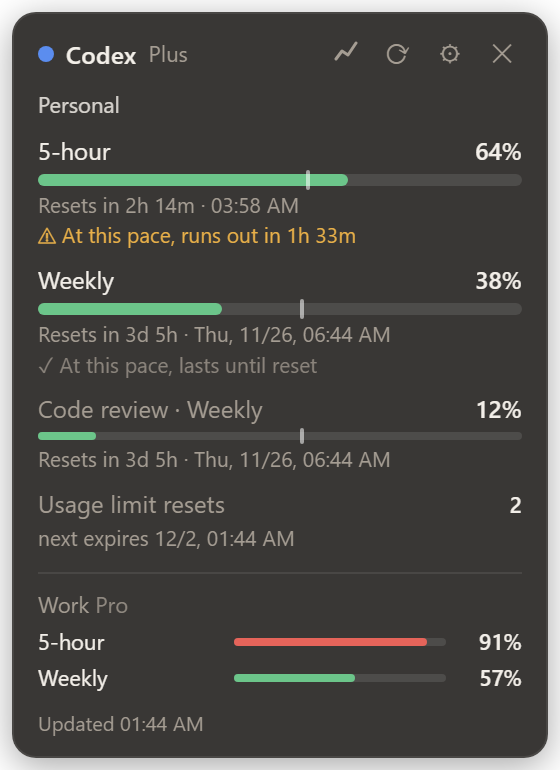
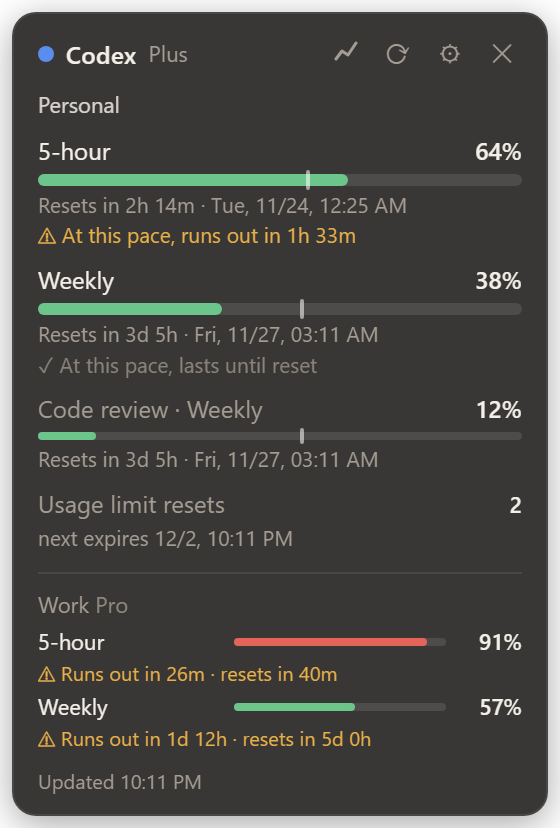
Show reset and run-out for other accounts; click an account name to open its history

diff --git a/src/widget.js b/src/widget.js
@@ -80,25 +80,61 @@ function creditsHtml(c) {
   return `<div class="row secondary"><div class="line"><span class="label">${esc(t('label.credits'))}</span><span class="pct money">${esc(v)}</span></div></div>`;
 }
 
+/** Run-out warning for a window, or '' when it lasts until the reset */
+function etaText(w) {
+  const e = w.eta;
+  if (!e) return '';
+  if (e.exhausted || w.limitReached) return t('w.exhausted');
+  if (e.beforeReset && e.at) return e.at > Date.now() ? t('w.etaRunOut', { left: fmtDur(e.at - Date.now()) }) : t('w.exhausted');
+  return '';
+}
+
+/** Short line under another account's bar once it matters: reached / runs out before the reset / ≥ 70% */
+function msubHtml(w) {
+  if (w.idle || !w.resetsAt) return '';
+  const ms = new Date(w.resetsAt).getTime() - Date.now();
+  if (!isFinite(ms)) return '';
+  const reset = ms > 0 ? fmtDur(ms) : null;
+  const e = w.eta;
+  const reached = w.limitReached || e?.exhausted || (e?.beforeReset && e.at && e.at <= Date.now());
+  if (reached) return `<div class="msub bad">${esc(reset ? t('w.mReached', { reset }) : t('w.exhausted'))}</div>`;
+  if (e?.beforeReset && e.at && reset) return `<div class="msub warn">${esc(t('w.mRunOut', { left: fmtDur(e.at - Date.now()), reset }))}</div>`;
+  if (w.pct >= 70) return `<div class="msub">${esc(fmtLeft(w.resetsAt))}</div>`;
+  return '';
+}
+
+/** Compact bar for another account; the full reset time and forecast are in the tooltip */
+function mrowHtml(w) {
+  const p = Math.round(w.pct);
+  const reset = w.idle ? t('w.idle') : fmtLeft(w.resetsAt);
+  const warn = w.idle ? '' : etaText(w);
+  const tip = [`${labelOf(w)} ${p}%`, reset, warn].filter(Boolean).join('\n');
+  const sub = msubHtml(w);
+  return `<div class="mrow" title="${esc(tip)}"><span class="mlabel">${esc(labelOf(w))}</span>
+    <div class="bar mbar"><div class="fill" style="width:${w.pct}%;background:${color(w.pct)}"></div></div>
+    <span class="mpct">${p}%</span></div>${sub}`;
+}
+
+/** Account name; a click opens that account's usage history */
+function anameHtml(name, part, extra = '') {
+  return `<span class="alink" data-part="${esc(part || '')}" title="${esc(t('w.history'))}">${esc(name)}</span>${extra}`;
+}
+
 /** Extra accounts: compact block per account with its 5-hour and weekly bars */
 function othersHtml(others) {
   return others.map((o, i) => {
     const name = o.name || o.email || t('a.unnamed', { n: i + 2 });
     let body;
     if (o.status === 'ok') {
-      body = o.windows.map(w => {
-        const p = Math.round(w.pct);
-        return `<div class="mrow"><span class="mlabel">${esc(labelOf(w))}</span>
-          <div class="bar mbar"><div class="fill" style="width:${w.pct}%;background:${color(w.pct)}"></div></div>
-          <span class="mpct">${p}%</span></div>`;
-      }).join('');
+      body = o.windows.map(mrowHtml).join('');
     } else if (o.status === 'auth') {
       body = `<div class="mmsg">${esc(msgOf(o))} <a href="#" class="mlogin" data-part="${esc(o.partition)}">${esc(t('w.pasteBtn'))}</a></div>`;
     } else {
       body = `<div class="mmsg">${esc(msgOf(o))}</div>`;
     }
     if (o.signInExpiresAt) body += expiringHtml(o.signInExpiresAt, o.partition);
-    return `<div class="acct"><div class="aname">${esc(name)}${o.plan ? ` <span class="aplan">${esc(o.plan)}</span>` : ''}</div>${body}</div>`;
+    const plan = o.plan ? ` <span class="aplan">${esc(o.plan)}</span>` : '';
+    return `<div class="acct"><div class="aname">${o.email ? anameHtml(name, o.partition, plan) : esc(name) + plan}</div>${body}</div>`;
   }).join('');
 }
 
@@ -169,7 +205,7 @@ function render() {
     // Blocked: say why first (also in compact mode)
     if (data.blocked) html = blockedHtml(data) + html;
     // Which account this is: custom name or email, always shown when known
-    if (state.account) html = `<div class="aname main" title="${esc(state.account)}">${esc(state.account)}</div>` + html;
+    if (state.account) html = `<div class="aname main">${anameHtml(state.account, '')}</div>` + html;
     if (!opts.compact && data.modelsUnavailable?.length) html += modelsHtml(data.modelsUnavailable);
     if (!opts.compact && data.credits) html += creditsHtml(data.credits);
     if (!opts.compact && data.resets) html += resetsHtml(data.resets);
@@ -212,6 +248,7 @@ function render() {
       e.preventDefault(); window.api.accounts.paste(a.dataset.part);
     }));
   }
+  $('content').querySelectorAll('.alink').forEach(a => a.addEventListener('click', () => window.api.openHistory(a.dataset.part || '')));
   $('content').querySelectorAll('.repaste').forEach(a => a.addEventListener('click', (e) => {
     e.preventDefault();
     if (a.dataset.part) window.api.accounts.paste(a.dataset.part); else window.api.paste.open();

diff --git a/src/main.js b/src/main.js
@@ -1019,8 +1019,19 @@ function openSettings() {
   settingsWin.on('closed', () => { settingsWin = null; });
 }
 
-function openHistory() {
-  if (historyWin && !historyWin.isDestroyed()) { historyWin.focus(); return; }
+let historyPick; // account key the history window should open on
+/** part: show this account ('' = main, a partition = another account); omitted = keep the current choice */
+function openHistory(part) {
+  let key;
+  if (typeof part === 'string') {
+    const acct = part ? (config.accounts || []).find(a => a.partition === part) : null;
+    key = acct ? histKey(acct.email) : histKey(config.mainEmail);
+  }
+  if (historyWin && !historyWin.isDestroyed()) {
+    if (key) historyWin.webContents.send('history:select', key);
+    historyWin.focus(); return;
+  }
+  historyPick = key || undefined;
   historyWin = new BrowserWindow({
     width: 600, height: 560, title: t('h.title'), backgroundColor: '#1b1d22',
     autoHideMenuBar: true, minWidth: 420, minHeight: 480,
@@ -1064,7 +1075,7 @@ function buildMenu() {
     { type: 'separator' },
     { label: t('menu.login'), click: () => openLogin(), enabled: config.source === 'web' },
     { label: t('menu.paste'), click: () => openPaste() },
-    { label: t('menu.history'), click: openHistory },
+    { label: t('menu.history'), click: () => openHistory() },
     { label: t('menu.openUsage'), click: () => shell.openExternal(USAGE_PAGE) },
     { type: 'separator' },
     {
@@ -1170,7 +1181,7 @@ ipcMain.handle('get-state', () => ({ state: lastState, opts: viewOpts() }));
 ipcMain.on('refresh', () => refresh());
 ipcMain.on('login', () => openLogin());
 ipcMain.on('open-settings', () => openSettings());
-ipcMain.on('open-history', () => openHistory());
+ipcMain.on('open-history', (_e, part) => openHistory(typeof part === 'string' ? part : undefined));
 ipcMain.on('open-issue', () => shell.openExternal(ISSUES_URL));
 ipcMain.on('use-source', (_e, src) => {
   if (src !== 'web' && src !== 'cli' || src === config.source) return;
@@ -1203,6 +1214,7 @@ function historyName(key) {
   return a ? acctName(a) : usage.accountName(key, '', config.maskEmail);
 }
 ipcMain.handle('history:get', (_e, acct) => {
+  if (acct == null && historyPick) { acct = historyPick; historyPick = undefined; }
   const now = Date.now();
   const main = histKey(config.mainEmail);
   // Main account first, then the others by when they were last seen

diff --git a/test/smoke-runner.js b/test/smoke-runner.js
@@ -83,12 +83,26 @@ setTimeout(async () => {
   const after = await ipc['settings:get']();
   // HISTORY: what the history window gets (HISTORY=<key> picks an account)
   const history = process.env.HISTORY ? await ipc['history:get']({}, process.env.HISTORY === '1' ? undefined : process.env.HISTORY) : undefined;
+  // OPEN_HISTORY=<partition>: click that account's name on the widget → history opens on it;
+  // then the header button (no account) and the main account's name while it's open
+  let openHistory;
+  if (process.env.OPEN_HISTORY) {
+    ipc['open-history']({}, process.env.OPEN_HISTORY);
+    const first = await ipc['history:get']({}, undefined);
+    const second = await ipc['history:get']({}, undefined); // the pick is used once
+    const selects = () => global.__sent.filter(s => s[0] === 'history:select').map(s => s[1]);
+    ipc['open-history']({}, undefined);
+    const afterButton = selects();
+    ipc['open-history']({}, '');
+    openHistory = { first: first.selected, second: second.selected, afterButton, afterMain: selects(),
+      windows: global.__windows.filter(w => String(w.file || '').endsWith('history.html')).length };
+  }
   const workspaces = process.env.WORKSPACES ? await ipc['settings:list-workspaces']() : undefined;
   const pastedFile = path.join(global.__userData, 'pasted-sessions.bin');
   process.stdout.write('\n@@RESULT@@' + JSON.stringify({
     state, tooltip: global.__tooltip, trayImage: !!global.__trayImage, trayTitle: global.__trayTitle || '', platform: process.platform,
     languages: settings.languages.length, thresholds: after.config.notifyThresholds, signIn: settings.signIn,
-    reqs: global.__reqs, paste, workspaces, history, clip, google,
+    reqs: global.__reqs, paste, workspaces, history, clip, google, openHistory,
     pastedStored: fs.existsSync(pastedFile) ? fs.readFileSync(pastedFile, 'utf8') : null,
     loginWindows: global.__windows.filter(w => String(w.url || '').includes('/auth/login')).length,
     notes: global.__notes || [],

diff --git a/test/smoke.test.js b/test/smoke.test.js
@@ -227,6 +227,18 @@ test('history is kept per account; the history window can switch between them', 
   assert.deepEqual(w.history.five, []);
 });
 
+test('clicking an account name opens the history on that account', () => {
+  const r = run({
+    FIXTURE_OTHER: FIX('usage-weekly-only.json'), OPEN_HISTORY: 'persist:chatgpt-acct-x',
+    PRECONFIG: JSON.stringify({ accounts: [{ partition: 'persist:chatgpt-acct-x', email: '' }] }),
+  });
+  assert.equal(r.openHistory.first, 'work@example.com');
+  assert.equal(r.openHistory.second, 'me@example.com');
+  assert.deepEqual(r.openHistory.afterButton, []); // header button keeps the current choice
+  assert.deepEqual(r.openHistory.afterMain, ['me@example.com']);
+  assert.equal(r.openHistory.windows, 1);
+});
+
 test('tray: other accounts in the tooltip; highest of all accounts only when asked', () => {
   const acct = [{ partition: 'persist:chatgpt-acct-x', email: '' }];
   const base = { FIXTURE_OTHER: FIX('usage-weekly-only.json'), SIM_PLATFORM: 'darwin' };

diff --git a/src/preload.js b/src/preload.js
@@ -10,7 +10,7 @@ contextBridge.exposeInMainWorld('api', {
   login: () => ipcRenderer.send('login'),
   useSource: (src) => ipcRenderer.send('use-source', src),
   openSettings: () => ipcRenderer.send('open-settings'),
-  openHistory: () => ipcRenderer.send('open-history'),
+  openHistory: (part) => ipcRenderer.send('open-history', part),
   openIssue: () => ipcRenderer.send('open-issue'),
   hide: () => ipcRenderer.send('hide'),
   contextMenu: () => ipcRenderer.send('context-menu'),
@@ -26,6 +26,7 @@ contextBridge.exposeInMainWorld('api', {
   },
   history: {
     get: (acct) => ipcRenderer.invoke('history:get', acct),
+    onSelect: (cb) => ipcRenderer.on('history:select', (_e, key) => cb(key)),
     clear: () => ipcRenderer.invoke('history:clear'),
     exportCSV: () => ipcRenderer.invoke('history:export'),
   },

diff --git a/src/widget.html b/src/widget.html
@@ -96,6 +96,12 @@
   .mbar { flex: 1; margin-top: 0; height: 4px; }
   .mpct { width: 32px; text-align: right; font-variant-numeric: tabular-nums; font-weight: 600; }
   .mmsg { font-size: 11px; color: var(--muted); }
+  .msub { font-size: 10px; color: var(--muted); margin: 1px 0 2px; font-variant-numeric: tabular-nums; white-space: nowrap; overflow: hidden; text-overflow: ellipsis; }
+  .msub.warn { color: var(--warn); }
+  .msub.bad { color: var(--bad); font-weight: 600; }
+  .compact .msub:not(.bad) { display: none; }
+  .alink { cursor: pointer; }
+  .alink:hover { text-decoration: underline; }
   .mmsg a { color: var(--accent); -webkit-app-region: no-drag; }
 
   .bd { margin-top: 10px; padding-top: 8px; border-top: 1px solid rgba(255,255,255,0.08); }

diff --git a/src/history-view.js b/src/history-view.js
@@ -167,6 +167,7 @@ async function render() {
   document.body.classList.add('ready');
   await render();
   $('acct').addEventListener('change', (e) => { selected = e.target.value; render(); });
+  window.api.history.onSelect((key) => { selected = key || undefined; render(); });
   $('export').addEventListener('click', () => window.api.history.exportCSV());
   $('clear').addEventListener('click', async () => {
     if (confirm(t('h.clearConfirm'))) { await window.api.history.clear(); render(); }
